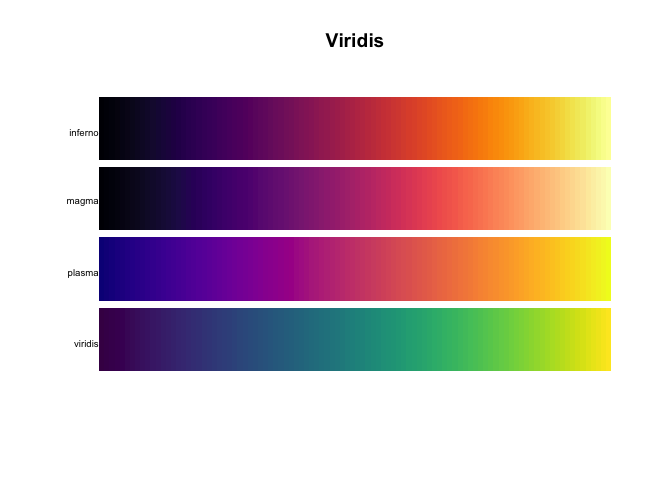
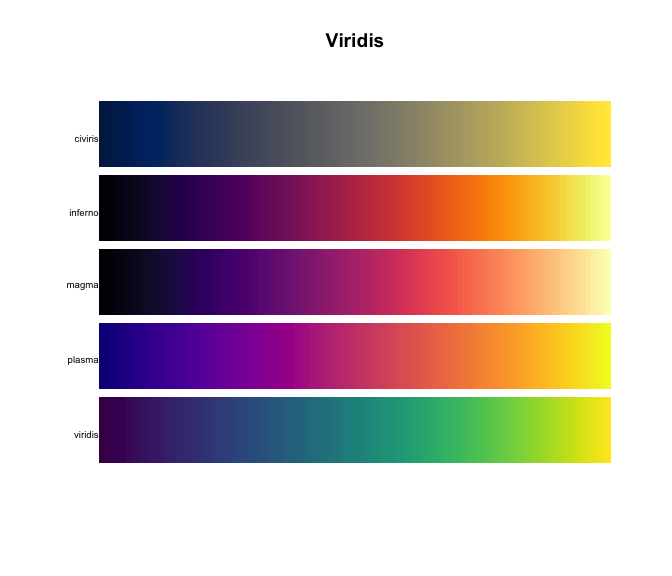
showing cividis under viridis. Closes #6

diff --git a/NEWS.md b/NEWS.md
@@ -2,6 +2,7 @@
 
 * Added Dichromat package [CRAN](https://cran.r-project.org/web/packages/dichromat/index.html)
 * Added palr package [CRAN](https://cran.r-project.org/web/packages/palr/index.html) [github](https://github.com/AustralianAntarcticDivision/palr) 
+* Combinding cividis and viridis.
 
 # 2018-03-02
 

diff --git a/README.md b/README.md
@@ -77,13 +77,6 @@ Palettes sorted by Package (alphabetically)
 devtools::install_github("awhstin/awtools")
 ```
 
-![](man/figures/README-cividis-1.png)
-
-``` r
-# Developmental version
-devtools::install_github("marcosci/cividis")
-```
-
 ![](man/figures/README-dichromat-1.png)
 
 ``` r

diff --git a/type-sorted-palettes.md b/type-sorted-palettes.md
@@ -25,13 +25,6 @@ Table of Contents
 devtools::install_github("awhstin/awtools")
 ```
 
-![](man/figures/type-sorted-cividisseq-1.png)
-
-``` r
-# Developmental version
-devtools::install_github("marcosci/cividis")
-```
-
 ![](man/figures/type-sorted-dichromatseq-1.png)
 
 ``` r
